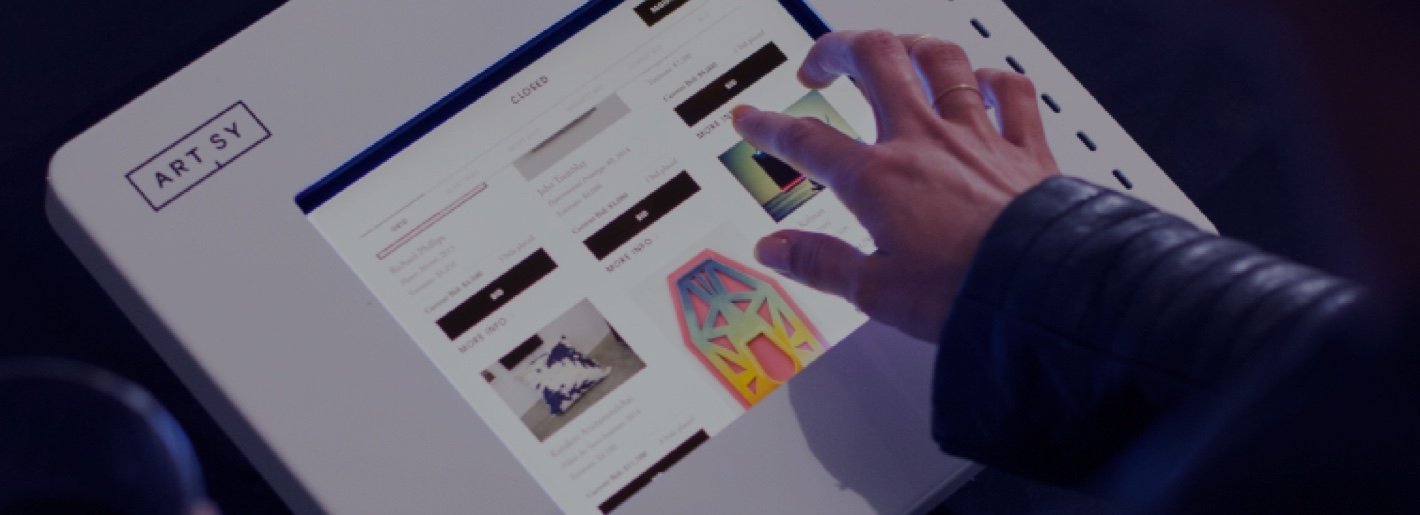
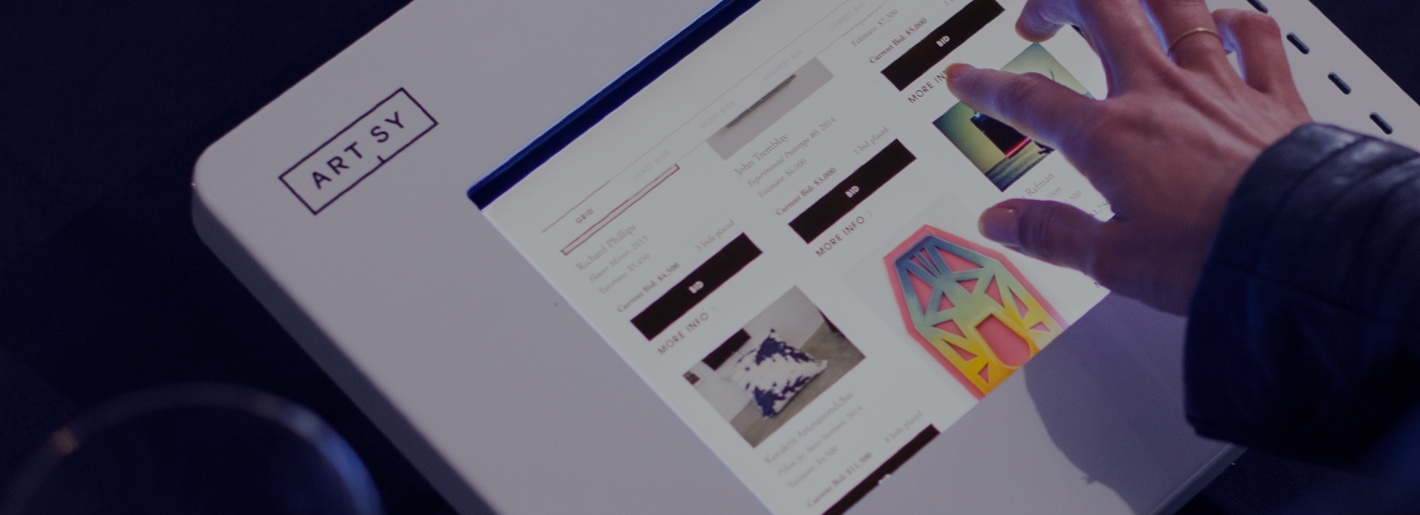
Added Nick Simmons' photo credit & higher res software section photo.

diff --git a/README.md b/README.md
@@ -31,3 +31,12 @@ Thanks to the following people and projects:
 - [This colour](http://www.colourlovers.com/color/398CCC/Walton)
 - [s3cmd](http://s3tools.org/)
 - [vertical timeline jquery thingy](http://www.jqueryscript.net/other/Responsive-Vertical-Timeline-With-jQuery-CSS3.html)
+
+Photo Credits
+----------------
+
+All banner (full-width) images on the site are my own unless noted below, used with permission.
+
+Photo | Photographer
+--- | ---
+"Software" banner on [Portfolio](http://ashfurrow.com/portfolio#software). | [Nick Simmons](http://instagram.com/nsimmons206) |
